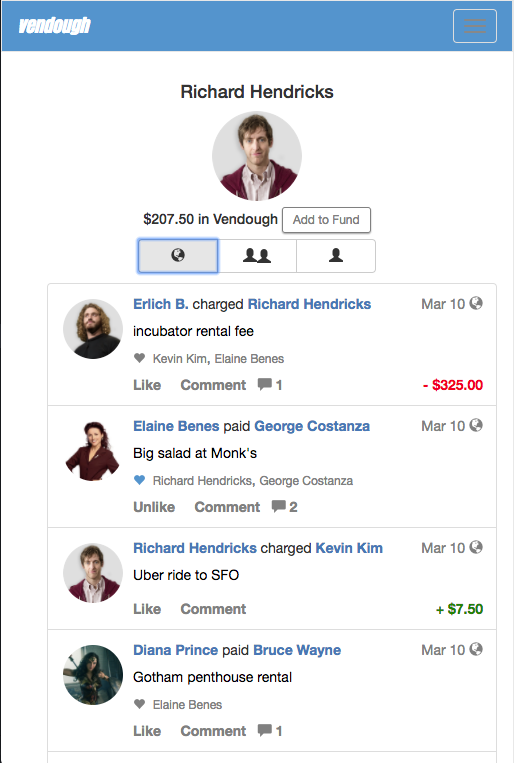
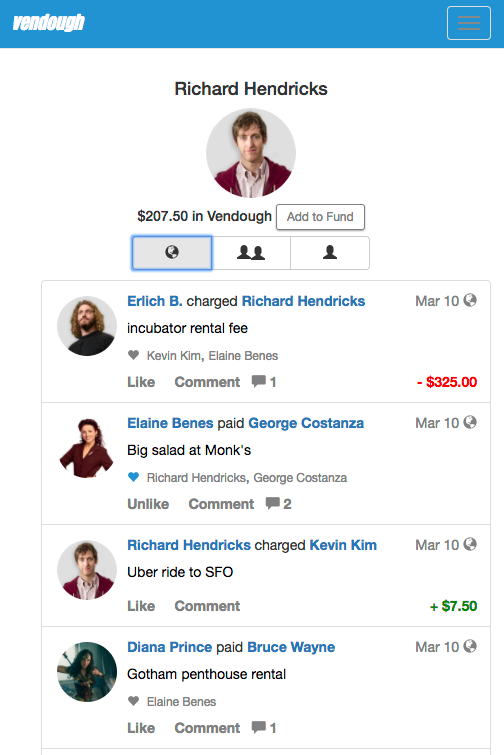
screen cap fixed

diff --git a/README.md b/README.md
@@ -6,18 +6,56 @@ Check out the working demo [here](https://vendough.herokuapp.com//).
 
 Vendough is built using Rails and jQuery.  
 
+<center>
 ![main-page](screen-caps/main-page.png)
 ![show-page](screen-caps/show-page.png)
-![transaction.png](screen-caps/transaction.png-pag)
-
+![transaction.png](screen-caps/transaction.png)
+</center>
 
 ## Installation
 
+### Things you will need:
+
+- [Rails](http://rubyonrails.org/)
+- [Postgres](https://www.postgresql.org/)
+
+### Postgres
+
+You must have [Postgres](https://www.postgresql.org/) installed in your local environment. Open up a Postgres terminal then enter:
+
+```
+CREATE role vendough_app WITH createdb
+\quit
+```
+
+### Rails Local Environment Setup
+
 Clone into local repository.
 
-Run rake db:migrate in terminal.
+Type:
 
-Run rails s in terminal.
+```
+rails db:create
+```
+
+and
+
+```
+rake db:migrate
+```
+also run
+
+```
+bundle install
+```
+
+to load up gems.
+
+Finally, run in terminal:
+
+```
+rails s
+```
 
 Go to a local host, and start Vendoughing away.
 
